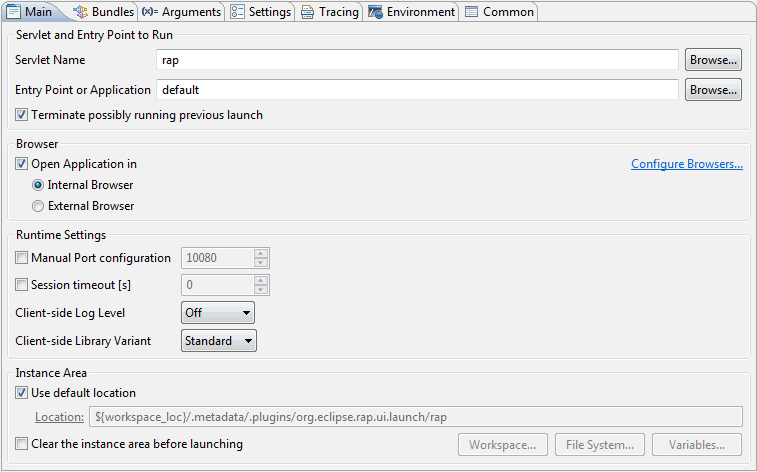
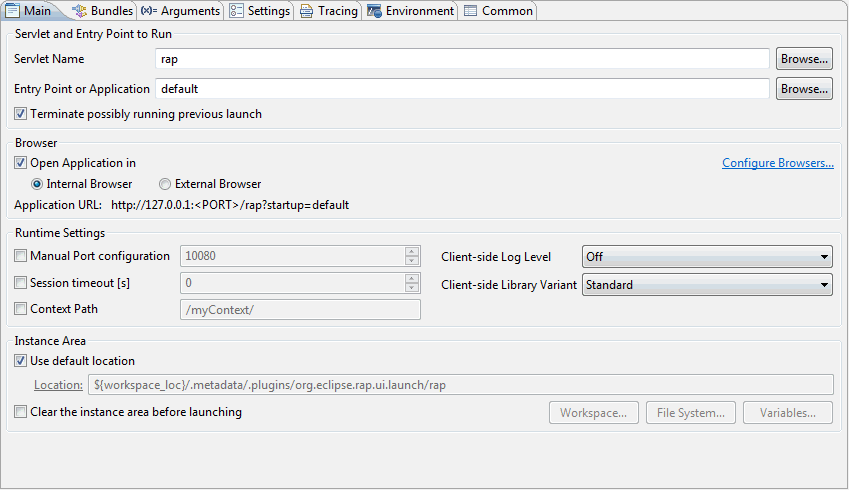
RESOLVED 341083: [Tooling] Update RAP launcher documentation https://bugs.eclipse.org/bugs/show_bug.cgi?id=341083

Changed region(s): [[0.0, 0.0, 1.0, 1.0], [0.9723, 0.6525, 1.0, 0.7119]]

diff --git a/tooling/org.eclipse.rap.ui.help/help/html/getting-started/launcher.html b/tooling/org.eclipse.rap.ui.help/help/html/getting-started/launcher.html
@@ -85,15 +85,18 @@ The default value is <code>warn</code>.
   
   <img src="../../images/launcher.png" />
   
-    <h3>Servlet and Entry Point to Run</h3>
+    <h3>Servlet and Entry Point/Application to Run</h3>
     <p>Within this group you need to choose the combination of servlet name and 
-    entry point you would like to run.
+    entry point/application you would like to run.
 
-    <p>Please note that the selection dialogs opened when pressing the 
-    <strong>Browse...</strong>  buttons list all servlet names/entry points 
-    available in the workspace. Thus you have to ensure that the bundle that 
-    provides the servlet name/entry point you selected is contained in the 
-    selection on page <strong>Bundles</strong>.</p>
+    <p>Please note that the selection dialog opens when the 
+    <strong>Browse...</strong> button was pressed. The dialog lists all servlet names and 
+    entry points/applications available in the workspace. 
+    Open the drop down menu item in the top right corner and select <code>Include target</code> 
+    if you want to see the servlet names and entry points/applications available 
+    in your workspace and target. The RAP Launcher will display an error in case the selected servlet 
+    name, entry point or application is not contained in the selection on the 
+    <strong>Bundles</strong> page.</p>
 
     <p>When the <strong>Terminate possible running previous launch</strong>
     option is selected, an eventually running launch with the same name 
@@ -112,6 +115,17 @@ The default value is <code>warn</code>.
     client-server communication. However if you would like to have full control 
     over the communication channel, you can explicitly specify a port number.
     </p>
+
+    <h3>Session Timeout</h3>
+    <p>Specifies the servlet session timeout in seconds. If the checkbox is 
+    unselected, the session will never expire.
+    </p>
+
+    <h3>Context Path</h3>
+    <p>A web application can be deployed with a context path. After deployment the web application 
+    will be accessible using this path e.g. http://server:port/contextPath/webapp. To simulate this during
+    development time you can use the option to specify a context path within the <strong>Main</strong> tab.  
+    </p>
     
     <h3>Client-side Log Level</h3>
     <p><strong>No longer supported since RAP 1.4. It can be used with prior versions 
@@ -125,11 +139,6 @@ The default value is <code>warn</code>.
     library. The <strong>Standard</strong> version is optimized for speed
     and size, whereas the <strong>Debug</strong> version should be used
     when developing with RAP, especially custom widgets.</p>
-    
-    <h3>Session Timeout</h3>
-    <p>Specifies the servlet session timeout in seconds. If the checkbox is 
-    unselected, the session will never expire.
-    </p>
     
     <h3>Instance Area</h3>
     <p>The instance area location sets the Program Arguments to define the
